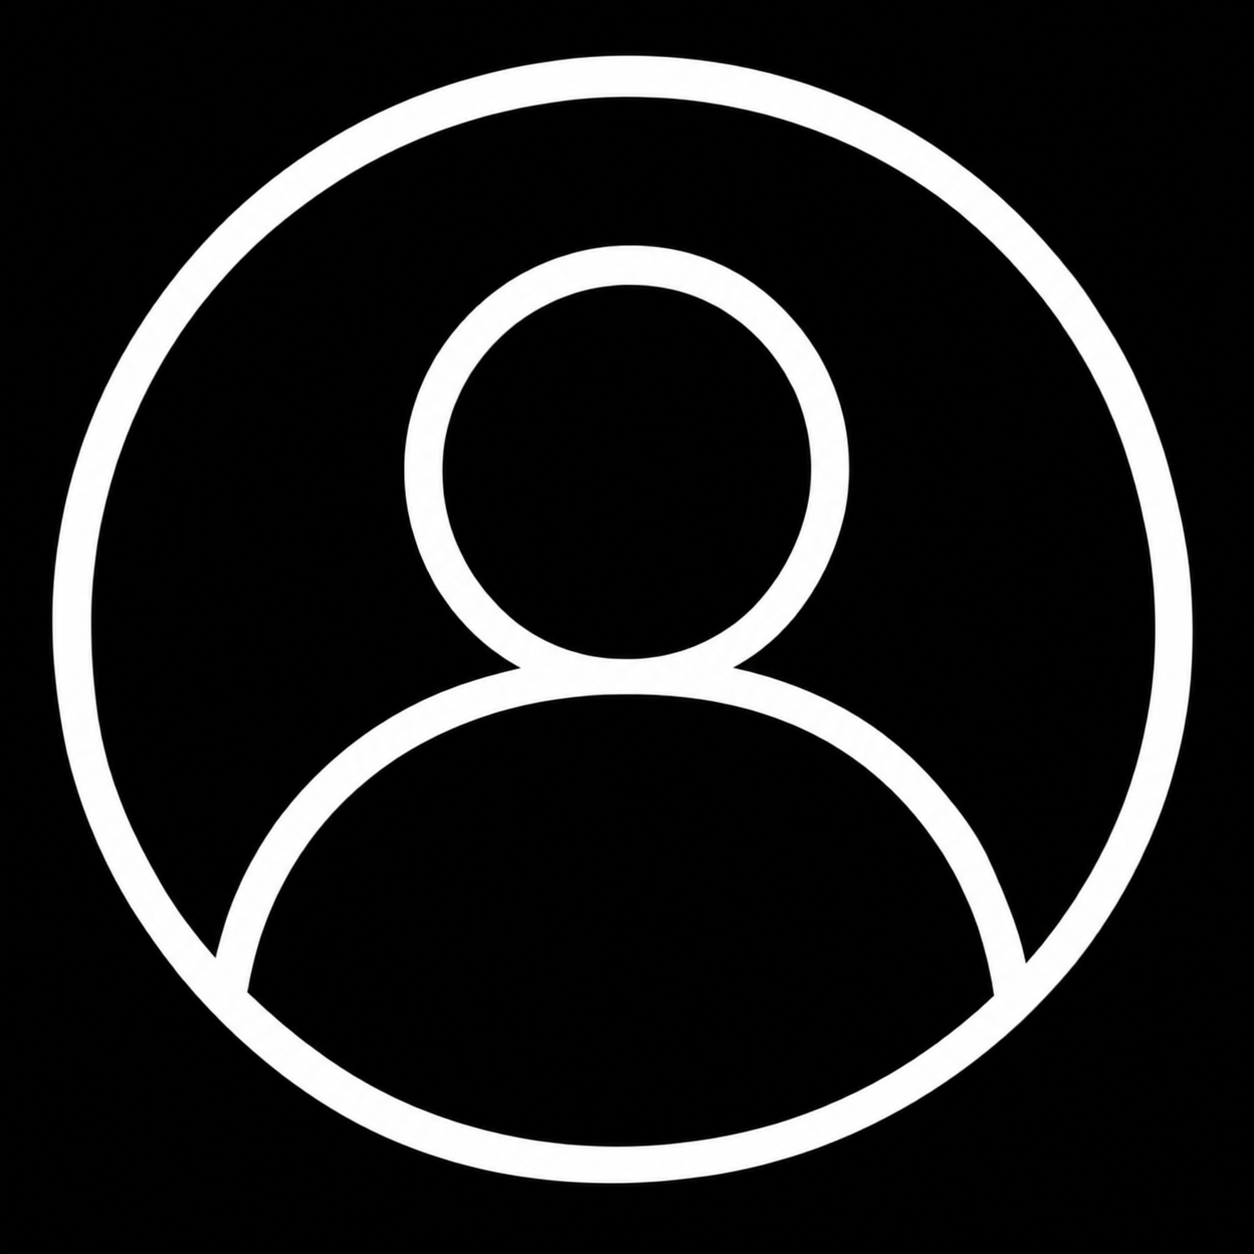
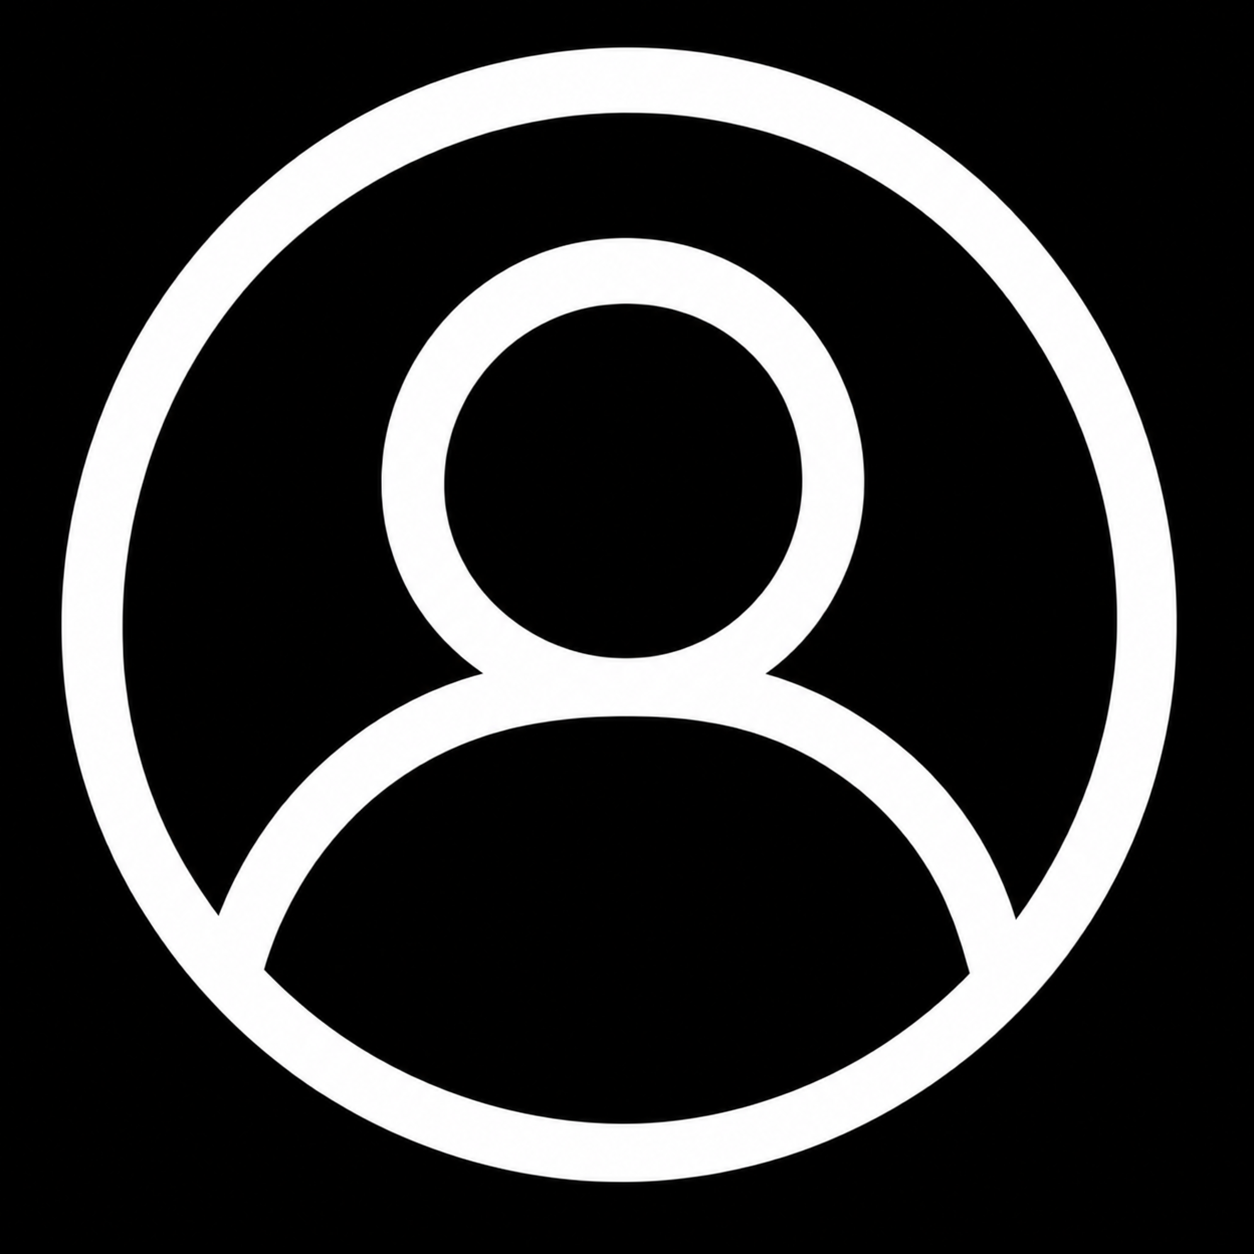
feat: ameliorer le profil utilisateur

Changed region(s): [[0.0311, 0.0311, 0.9641, 0.9641]]

diff --git a/public/css/profile.css b/public/css/profile.css
@@ -19,6 +19,7 @@ body {
     min-height: 100vh;
     padding: 40px 60px 80px;
     font-family: Arial, Helvetica, sans-serif;
+    list-style: none;
 }
 
 /* ===== Bandeau du haut ===== */
@@ -260,6 +261,7 @@ body {
     background: rgba(255, 90, 90, 0.15);
     border-color: rgba(255, 90, 90, 0.5);
 }
+
 
 /* Plusieurs messages : ils se décalent au lieu de se superposer */
 .flash + .flash {

diff --git a/src/Controller/ProfilController.php b/src/Controller/ProfilController.php
@@ -3,6 +3,8 @@
 namespace App\Controller;
 
 use App\Entity\Utilisateur;
+use App\Repository\ReservationPlaceRepository;
+use App\Repository\ReservationRepository;
 use App\Repository\UtilisateurRepository;
 use App\Security\EmailVerifier;
 use Doctrine\ORM\EntityManagerInterface;
@@ -23,7 +25,9 @@ final class ProfilController extends AbstractController
         EntityManagerInterface $entityManager,
         UserPasswordHasherInterface $passwordHasher,
         UtilisateurRepository $utilisateurRepository,
-        EmailVerifier $emailVerifier
+        EmailVerifier $emailVerifier,
+        ReservationRepository $reservationRepository,
+        ReservationPlaceRepository $reservationPlaceRepository
     ): Response {
         /** @var Utilisateur $user */
         $user = $this->getUser();
@@ -153,8 +157,24 @@ final class ProfilController extends AbstractController
             return $this->redirectToRoute('app_profil');
         }
 
+        // Chargement des réservations de l'utilisateur et de leurs places
+        $reservations = $reservationRepository->findBy(
+            ['utilisateur' => $user]
+        );
+
+        $reservationsDetails = [];
+
+        foreach ($reservations as $reservation) {
+            $reservationsDetails[] = [
+                'reservation' => $reservation,
+                'places' => $reservationPlaceRepository->findBy([
+                    'reservation' => $reservation,
+                ]),
+            ];
+        }
+
         return $this->render('profil/index.html.twig', [
-            'reservations' => [],
+            'reservationsDetails' => $reservationsDetails,
         ]);
     }
 }
